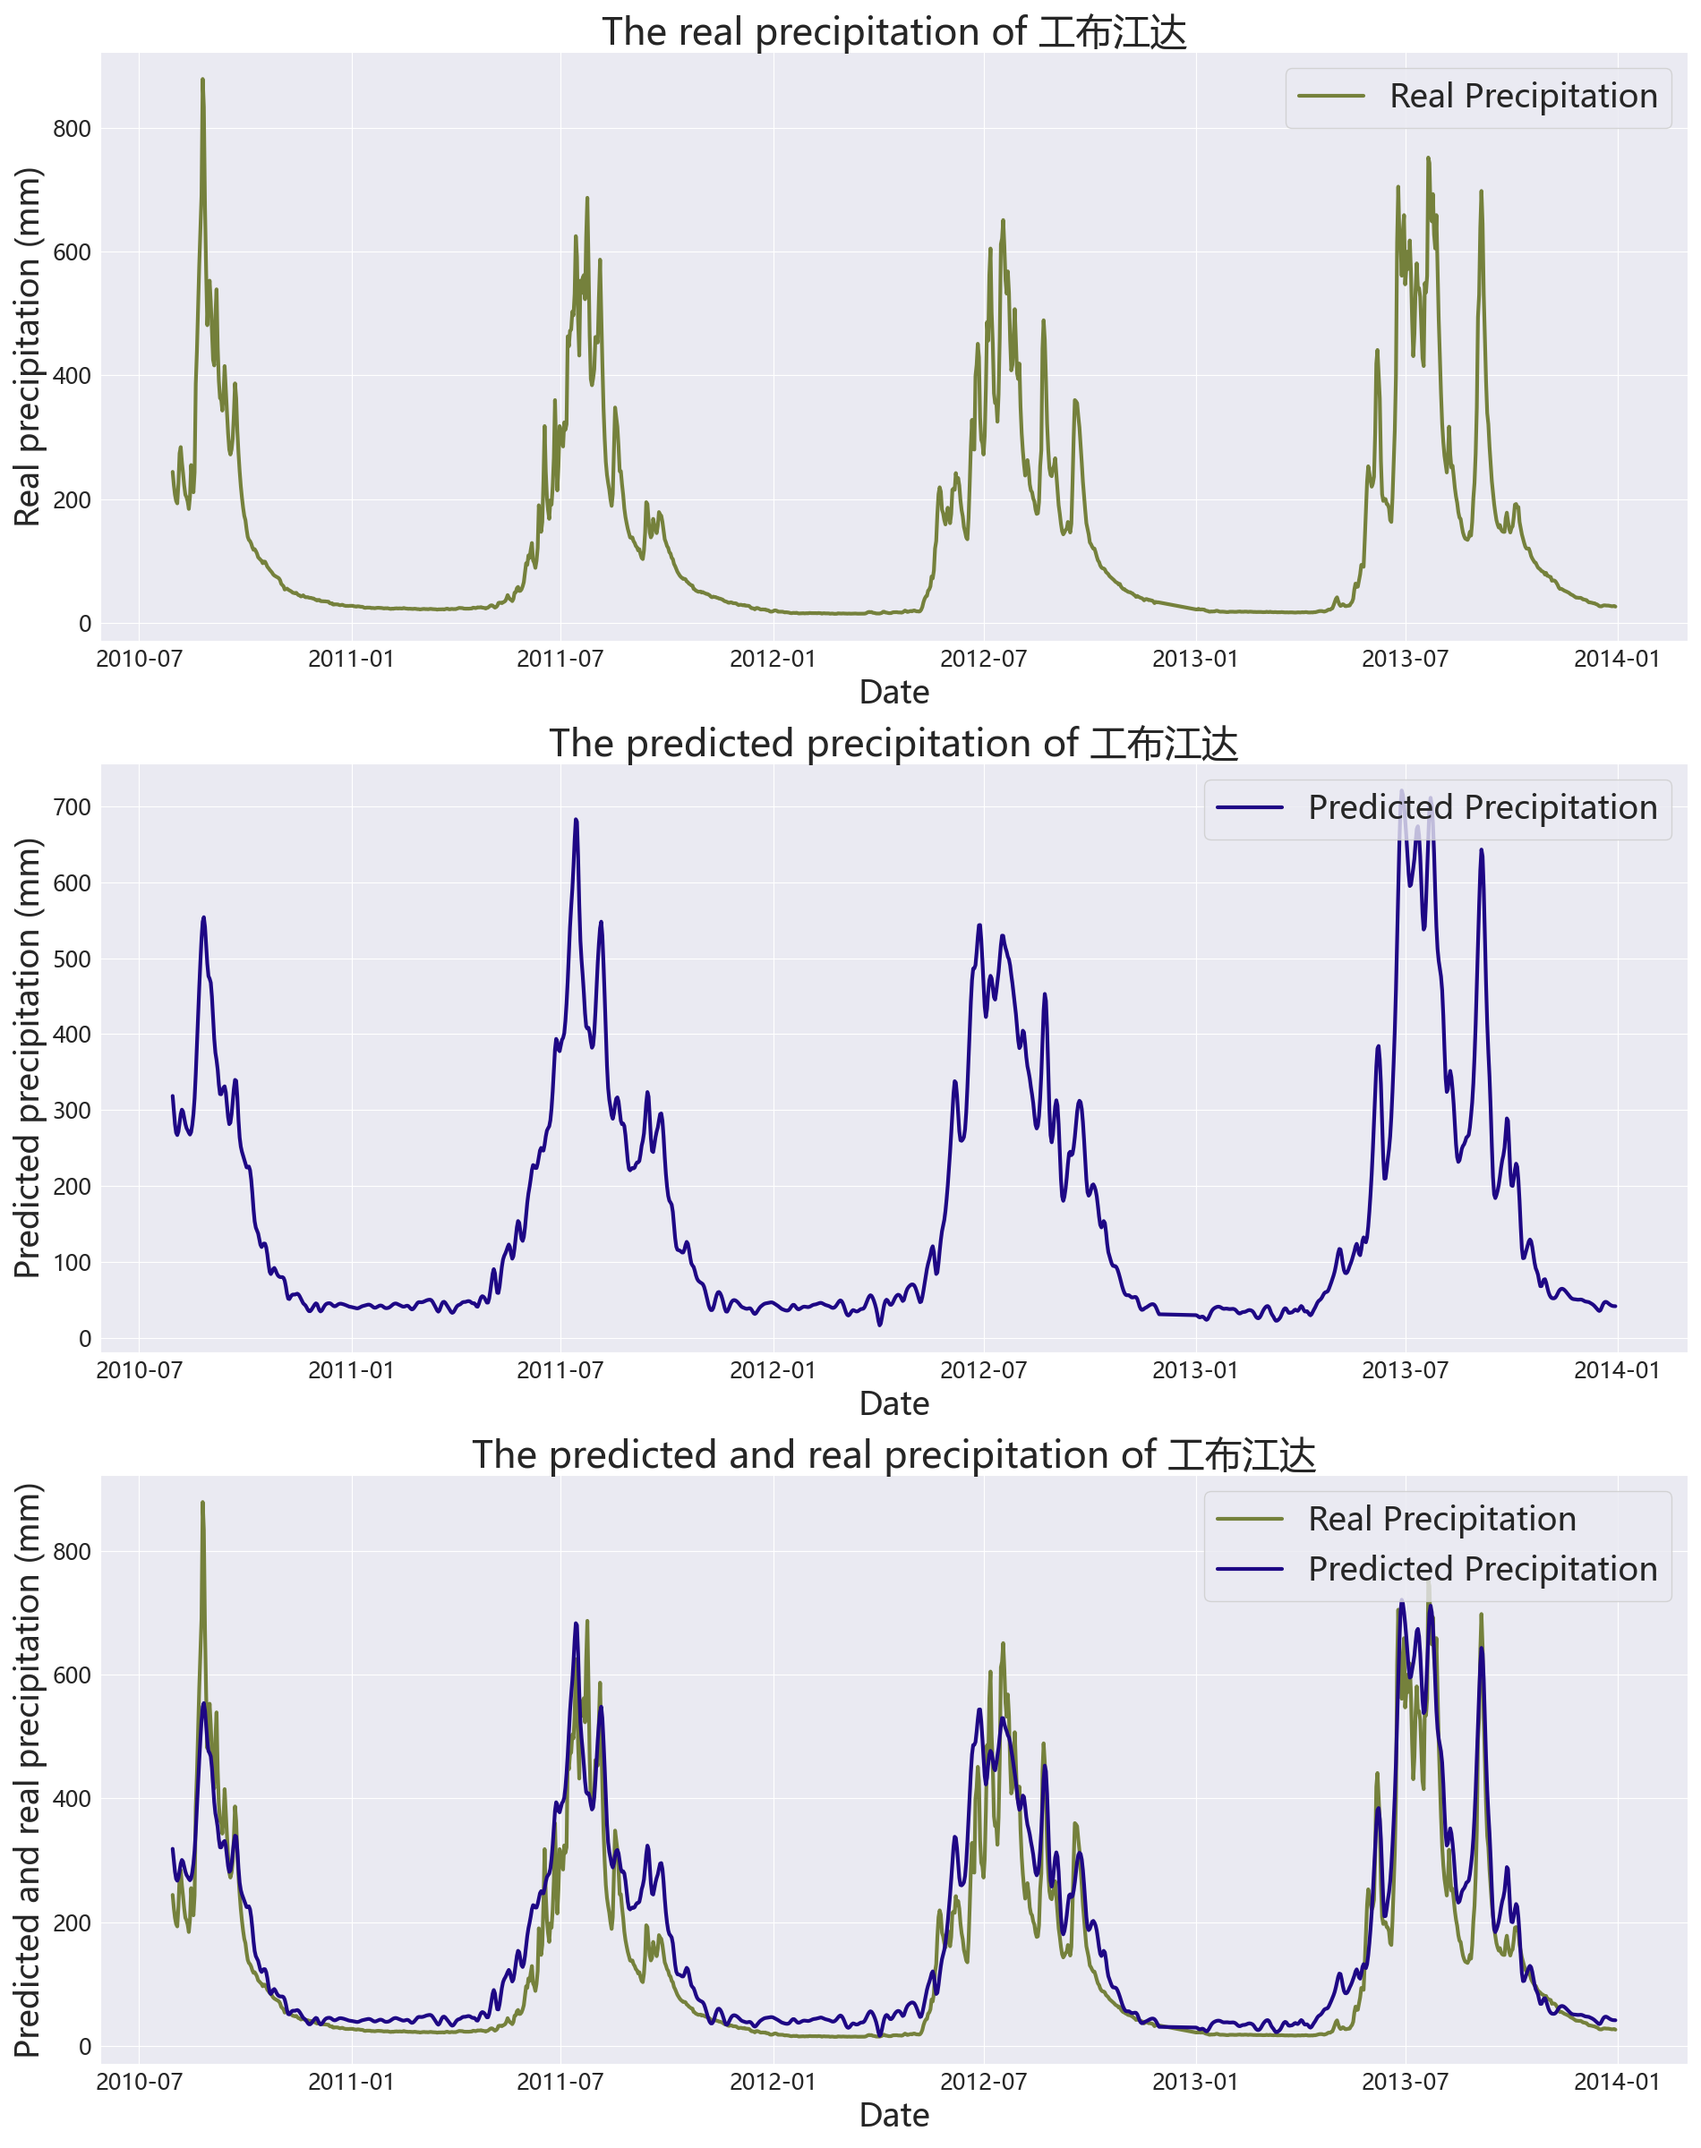
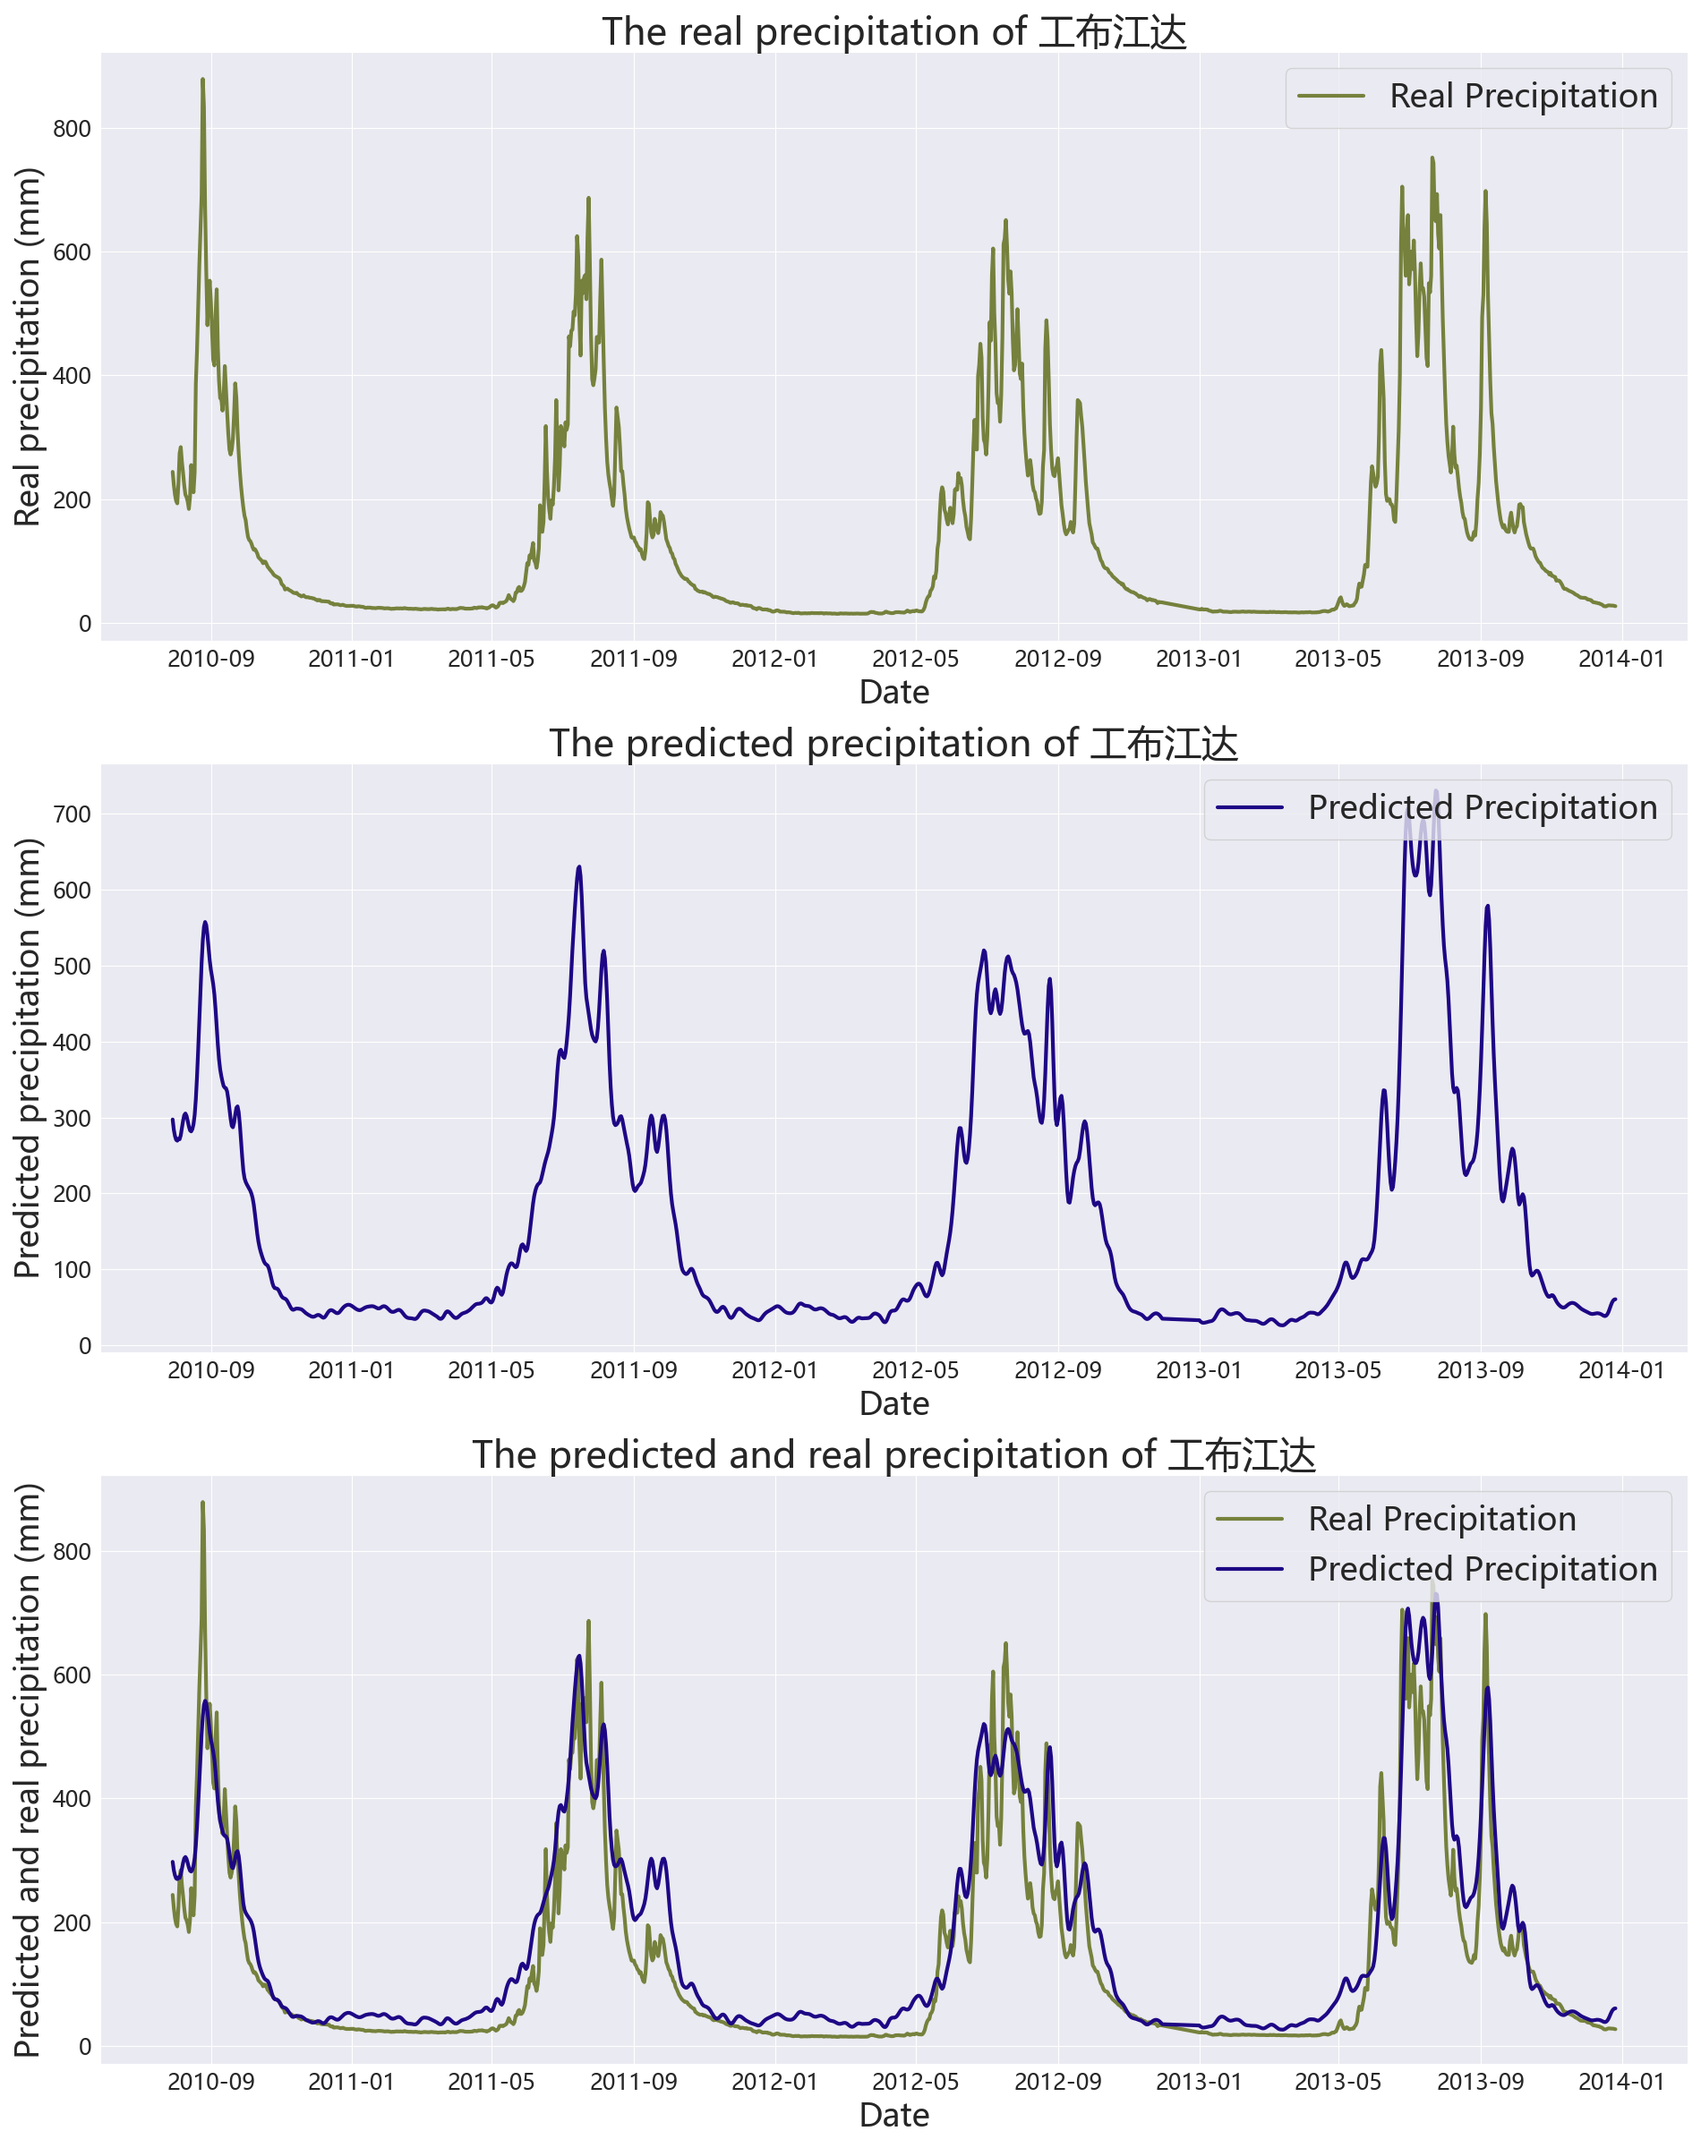
mult-step prediction
basically realize mult-step of prediction and adjustment of different memory periods.

diff --git a/Scripts/eval.py b/Scripts/eval.py
@@ -52,15 +52,15 @@ with torch.no_grad():
             # temp_ix = train_ix[train_ix['站名'] == station_name]['date']
             temp_ix = train_ix[train_ix['站名'] == station_name][[x for x in train_ix.columns if x != '站名']]
             temp_x = train_x[train_ix['站名'] == station_name].to(Config.DEVICE)
-            temp_y_obs = train_y[train_ix['站名'] == station_name].detach().cpu().numpy().squeeze()
-            temp_y_pred = model(temp_x).detach().cpu().numpy().squeeze()
+            temp_y_obs = train_y[train_ix['站名'] == station_name].detach().cpu().numpy()
+            temp_y_pred = model(temp_x).detach().cpu().numpy()
             temp_y_pred[temp_y_pred < 0] = 0  # 负数替换为0
             # 反归一化
             scalers = joblib.load(Config.scalers_path)  # 加载标准化器
             temp_y_obs = scalers['model__y_scaler'].inverse_transform(
-                pd.DataFrame(temp_y_obs)).squeeze()
+                pd.DataFrame(temp_y_obs))
             temp_y_pred = scalers['model__y_scaler'].inverse_transform(
-                pd.DataFrame(temp_y_pred)).squeeze()
+                pd.DataFrame(temp_y_pred))
             # 计算评估指标
             r2 = r2_score(temp_y_obs, temp_y_pred)
             rmse = mean_squared_log_error(temp_y_obs, temp_y_pred)

diff --git a/Scripts/train.py b/Scripts/train.py
@@ -89,14 +89,14 @@ with torch.no_grad():
         # temp_y_obs = scalers['model__y_scaler'].inverse_transform(pd.DataFrame({Config.target_name[0]: temp_y_obs})).squeeze()
         # temp_y_pred = scalers['model__y_scaler'].inverse_transform(pd.DataFrame({Config.target_name[0]: temp_y_pred})).squeeze()
         temp_y_obs = scalers['model__y_scaler'].inverse_transform(
-            pd.DataFrame(temp_y_obs)).squeeze()
+            pd.DataFrame(temp_y_obs))
         temp_y_pred = scalers['model__y_scaler'].inverse_transform(
-            pd.DataFrame(temp_y_pred)).squeeze()
+            pd.DataFrame(temp_y_pred))
         # 计算训练集的评估指标
         r2 = r2_score(temp_y_obs, temp_y_pred)
         rmse = mean_squared_log_error(temp_y_obs, temp_y_pred)
         nse = cal_nse(temp_y_obs, temp_y_pred)
-        print('训练集评估结果--站名: {}; R2: {:0.2}; RMSE: {:0.2}; NSE: {:0.2}'.format(station_name, r2, rmse, nse))
+        print('训练集评估结果--站名: {}; R2: {:0.4f}; RMSE: {:0.4f}; NSE: {:0.4f}'.format(station_name, r2, rmse, nse))
         # 绘制
         # 合并重叠部分(简单均值)
         temp_y_pred = pd.DataFrame(temp_y_pred)

diff --git a/Config.py b/Config.py
@@ -37,7 +37,7 @@ feature_size = len(feature_names)
 # 数据集划分相关
 split_time = datetime(2014, 1, 1)  # 数据集的划分时间节点
 seq_len_day = 210  # 记忆时间(时间分辨率: day)
-pred_len_day = 1  # 预见期(day)
+pred_len_day = 6  # 预见期(day)
 # seq_len_hour = 96  # 记忆时间(时间分辨率: hour)
 # pred_len_hour = 1  # 预见期(hour)
 

diff --git a/README.md b/README.md
@@ -27,9 +27,10 @@
  - README.MD  `项目说明文档`
 
 # 后期可能增加
-1. 增加多步预测
-2. 未来或许换训练集、验证集、测试集(遥遥无期)
-3. 完善整个流程, 方便记忆期和预见期调整后, 快速进行模型整体运行
+1. 增加多步预测 -- 2024/6/2完成,可实现不同记忆期和不同预见期的模型运行
+2. 未来或许换训练集、验证集、测试集(遥遥无期),目前是训练集和测试集
+3. 完善整个流程, 方便记忆期和预见期调整后, 快速进行模型整体运行  -- 
+4. 超参数优化(获取基础参数)
 
 
  
